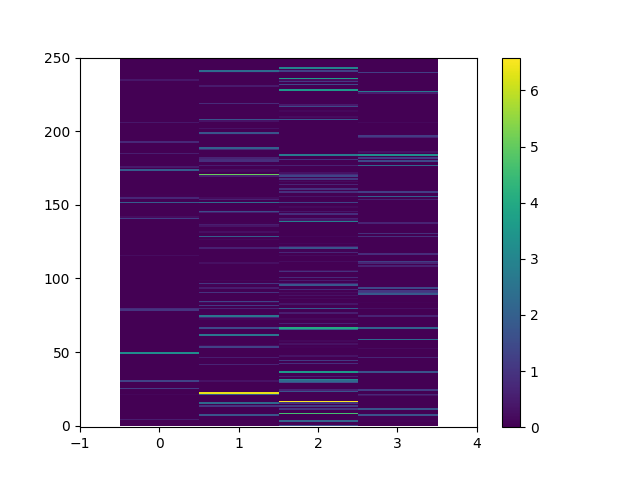
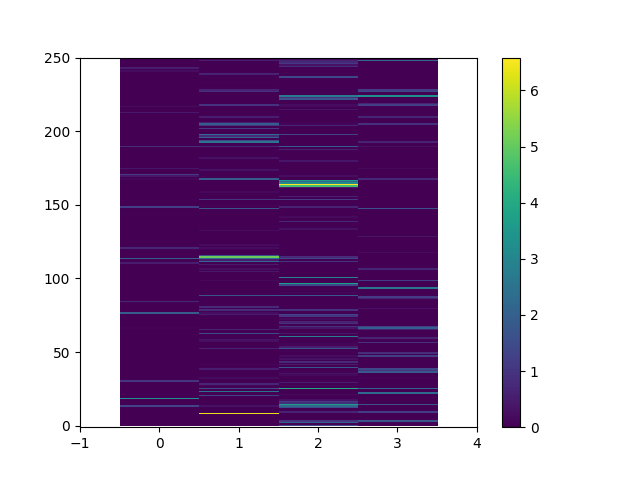
fixed img bags

Changed region(s): [[0.1875, 0.125, 0.6875, 0.9062]]

diff --git a/fastICA/main.py b/fastICA/main.py
@@ -95,7 +95,7 @@ def clustering(X):
     # test: dbscan = DBSCAN(eps=0.1, min_samples=2, metric='precomputed')
     # solve: dbscan = DBSCAN(eps=0.0001, min_samples=10, metric='precomputed')
 
-    dbscan = DBSCAN(eps=0.0001, min_samples=10, metric='precomputed')
+    dbscan = DBSCAN(eps=0.01, min_samples=3, metric='precomputed')
     labels = dbscan.fit_predict(distance_matrix)
 
     # print(labels)

diff --git a/fastICA/README.md b/fastICA/README.md
@@ -66,15 +66,20 @@ Mixing matrix:
 ![image.png](https://github.com/grifguitar/ica-connected-subgraph/blob/main/fastICA/images_2/frame_1.png)
 ![image.png](https://github.com/grifguitar/ica-connected-subgraph/blob/main/fastICA/images_2/frame_3.png)
 
+#### Clustered signals matrix (True, Reconstruct):
+
+![image.png](https://github.com/grifguitar/ica-connected-subgraph/blob/main/fastICA/images_2/frame_5.png)
+![image.png](https://github.com/grifguitar/ica-connected-subgraph/blob/main/fastICA/images_2/frame_4.png)
+
 #### Observations matrix (True, Reconstruct):
 
 ![image.png](https://github.com/grifguitar/ica-connected-subgraph/blob/main/fastICA/images_2/frame_2.png)
-![image.png](https://github.com/grifguitar/ica-connected-subgraph/blob/main/fastICA/images_2/frame_4.png)
+![image.png](https://github.com/grifguitar/ica-connected-subgraph/blob/main/fastICA/images_2/frame_6.png)
 
 #### Total results:
 
-![image.png](https://github.com/grifguitar/ica-connected-subgraph/blob/main/fastICA/images_2/frame_5.png)
-![image.png](https://github.com/grifguitar/ica-connected-subgraph/blob/main/fastICA/images_2/frame_6.png)
 ![image.png](https://github.com/grifguitar/ica-connected-subgraph/blob/main/fastICA/images_2/frame_7.png)
 ![image.png](https://github.com/grifguitar/ica-connected-subgraph/blob/main/fastICA/images_2/frame_8.png)
 ![image.png](https://github.com/grifguitar/ica-connected-subgraph/blob/main/fastICA/images_2/frame_9.png)
+![image.png](https://github.com/grifguitar/ica-connected-subgraph/blob/main/fastICA/images_2/frame_10.png)
+![image.png](https://github.com/grifguitar/ica-connected-subgraph/blob/main/fastICA/images_2/frame_11.png)
